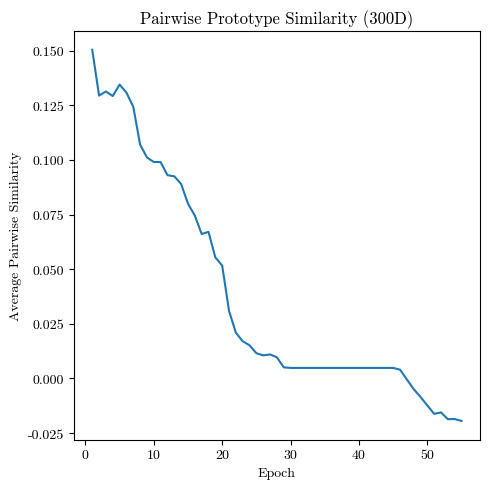
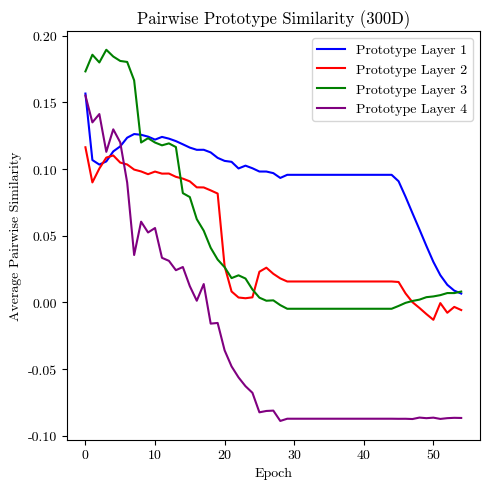
periodic commit

diff --git a/paper/paper.tex b/paper/paper.tex
@@ -18,6 +18,8 @@
 \graphicspath{{figures/}}
 \usepackage{caption}
 \usepackage{subcaption}
+\usepackage[table]{xcolor}
+\usepackage{array}
 
 % NOTATION 
 \newcommand{\R}{\mathbb R}
@@ -227,14 +229,14 @@ This final fine-tuning stage allows the encoder, prototypes, temporal readout mo
 \section{Experiments}
 \label{sec:experiments}
 
-We train instances of ProtoTSRL on several sets of univariate time series and evaluate the model's training dynamics and the quality of the learned representations. The geometry of the representation space can be visualized with dimension reduction (we use PaCMAP), and representation quality is evaluated with classification-based downstream tasks. 
+We train ProtoTSRL on several sets of univariate time series and evaluate the model's training dynamics and the quality of the learned representations. The geometry of the representation space can be visualized with DR (we use PaCMAP), and representation quality is evaluated with classification-based downstream tasks. 
 
 \subsection{Synthetic Time Series}
 \label{subsec:synthetic_univariate}
 
-In this section, we create several synthetic datasets to test the model's ability to represent and distinguish broadly important characteristics of time series such as periodicity, stationarity, and temporal dependence. Each dataset consists of variable-length time series simulated by one of several user-defined generative processes. To ensure sufficient diversity within the generated data, we add small perturbations to the parameters of each generative process so that each sample is parametrized slightly differently but still clearly belongs to a specific class. To evaluate the learned representations, we fit several models of varying complexity to recover the label of the original generative process.
+In this section, we create several synthetic datasets to test the model's ability to represent and distinguish broadly important characteristics of time series such as periodicity, stationarity, and temporal dependence. Each dataset consists of variable-length time series simulated by one of several user-defined generative processes. To ensure sufficient diversity within the generated data, we add small perturbations to the parameters of each generative process so that each sample is parametrized slightly differently but still clearly belongs to a specific class. The same model architecture is trained for each dataset. Importantly, this architecture implements four encoder segments: the first two are dense, so their respective prototype layers learn localized features, while the last two dilate exponentially, so their prototype layers learn longer-term features. To evaluate the learned representations, we fit several models of varying complexity to recover the label of the original generative process.
 
-\paragraph{Periodic Series} This dataset consists of periodic (sinusoidal) series. The data generative process is determined by two components: wave parameters (frequency, amplitude, vertical shifts, phase shifts, drift) and noise parameters (amplitude jittering, frequency jittering, additive Gaussan noise, baseline wander). We generate five classes: (1) base sine wave, (2) base sine wave with different frequency and amplitude, (3) sine wave with positive linear drift, (4) sine wave with negative linear drift, (5) sine wave with positive vertical shift. The same noise parameters are applied to all 5 classes. Examples of a generated series from each class are shown in Figure \ref{fig:periodic_univariate_examples}.
+\paragraph{Periodic Series} This dataset consists of periodic (sinusoidal) series. The data generative process is determined by two components: wave parameters (frequency, amplitude, vertical shifts, phase shifts, drift) and noise parameters (amplitude jittering, frequency jittering, additive Gaussan noise, baseline wander). We generate five classes: (1) base sine wave, (2) base sine wave with different frequency and amplitude, (3) sine wave with positive linear drift, (4) sine wave with negative linear drift, (5) sine wave with positive vertical shift. The same noise parameters are applied to all 5 classes. Examples of a generated series from each class are shown in Figure \ref{fig:periodic_univariate_examples}. 
 
 \begin{figure}
     \centering 
@@ -245,9 +247,54 @@ In this section, we create several synthetic datasets to test the model's abilit
     \label{fig:periodic_univariate_examples}
 \end{figure}
 
-ProtoTSRL is trained on this dataset to generate representations with 300 features. We first analyze the evolution of the learned prototype spaces throughout training via the average pairwise similarity between prototypes in each layer. 
+ProtoTSRL is trained on this dataset to generate representations with 300 features. We first analyze the evolution of the learned prototype spaces throughout training via the average pairwise similarity between prototypes in each layer. Lower average similarity implies the prototypes are more diverse and further apart within their respective latent space, thereby learning to capture a broader range of morphological structures. We expect prototype similarity to decrease in Stage 1 training due to the prototype regularization component and to remain constant in Stage 2 as prototype layers are frozen. However, in Stage 3, the objective does not regularize prototypes at all, so the behavior of prototype similarity is unknown. Prototype similarities at each layer are shown in Figure \ref{fig:periodic_univariate_dynamics}. Perhaps predictably, these trajectories indicate that the model quickly prefers to diversify later prototype spaces that represent long-term morphologies. Indeed, for highly periodic series such as these, local morphologies are unlikely to hold much unique information and are more prone to corruption due to added noise -- all important characteristics of this dataset (i.e. wave parameters) are present and detectable over long time horizons. However, it appears that global training disrupts this paradigm: in final epochs, early prototype layers fluctuate significantly while later ones are largely fixed. 
 
-\paragraph{Autoregressive Series}
+\begin{figure}
+    \centering 
+    \includegraphics[width = 0.5\textwidth]{periodic_univariate_dynamics.png}
+    \caption{Average pairwise prototype similarity by layer.}
+    \label{fig:periodic_univariate_dynamics}
+\end{figure}
+
+Because ProtoTSRL learns fixed-length representations, we are additionally able to visualize the representation space directly via DR and evaluate representation quality through the geometry of the learned space. PaCMAP embeddings of periodic series representations in two and three dimensions are shown in Figure \ref{fig:periodic_pacmap}. We include both two and three dimensional embeddings because the geometry of the embedding is not always obvious in two dimensions. These embeddings are also somewhat predictable. ProtoTSRL clearly distinguishes series by frequency and amplitude (classes 1 and 2). On the other hand, positive vertical shift and positive linear drift (classes 3 and 5) result in series that overlap extensively, and the model struggles to separate them. Also of note is the separation between the base series and the negative linear drift (classes 1 and 4). The two are separable, but their embeddings appear intertwined; this is particularly evident in three dimensions.
+
+\begin{figure}
+    \centering 
+    \includegraphics[width = \textwidth]{periodic_univariate_pacmap2d.png} \\
+    \includegraphics[width = \textwidth]{periodic_univariate_pacmap3d.png}
+    \caption{PaCMAP embeddings of periodic series representations in two and three dimensions.}
+    \label{fig:periodic_pacmap}
+\end{figure}
+
+Lastly, we evaluate representation quality with a classification-based downstream task. We train models of varying complexities (logistic regression, decision tree, random forest, and multilayer perceptron) to label each representation with the generative process from which it was drawn. Model performance metrics are listed in Table \ref{tab:periodic-model-accuracies}.
+
+\begin{table}[ht]
+\centering
+\renewcommand{\arraystretch}{1.6}
+\setlength{\tabcolsep}{5pt}
+\begin{tabular}
+    {p{0.1\textwidth} p{0.20\textwidth} p{0.20\textwidth} p{0.20\textwidth} p{0.20\textwidth}}
+    & \centering\textbf{Logistic Regression} & \centering\textbf{Decision Tree} & \centering\textbf{Random Forest} & \centering\arraybackslash\textbf{Multilayer Perceptron} \\[0.8em]
+    \hline
+    \textbf{Accuracy}
+    & \centering 0.952 & \centering 0.964 & \centering 0.982 & \centering\arraybackslash 0.964 \\
+    [0.6em]
+\end{tabular}
+\vspace{0.8em}
+\caption{Model accuracies: downstream classification.}
+\label{tab:periodic-model-accuracies}
+\end{table}
+
+\paragraph{Autoregressive Series} This dataset consists of autogressive series. The data generative process is determined by the order of temporal dependence and the strength of noise two components: wave parameters (frequency, amplitude, vertical shifts, phase shifts, drift) and noise parameters (amplitude jittering, frequency jittering, additive Gaussan noise, baseline wander). We generate five classes: (1) base sine wave, (2) base sine wave with different frequency and amplitude, (3) sine wave with positive linear drift, (4) sine wave with negative linear drift, (5) sine wave with positive vertical shift. The same noise parameters are applied to all 5 classes. Examples of a generated series from each class are shown in Figure \ref{fig:periodic_univariate_examples}. 
+
+\begin{figure}
+    \centering 
+    \includegraphics[width = 0.8\textwidth]{periodic1.png} \\
+    \includegraphics[width = 0.8\textwidth]{periodic2.png} \\
+    \includegraphics[width = 0.4\textwidth]{periodic3.png}
+    \caption{Example series from each class of periodic series.}
+    \label{fig:periodic_univariate_examples}
+\end{figure}
 
 \subsection{Atrial Fibrillation Detection in PPG Signal}
 